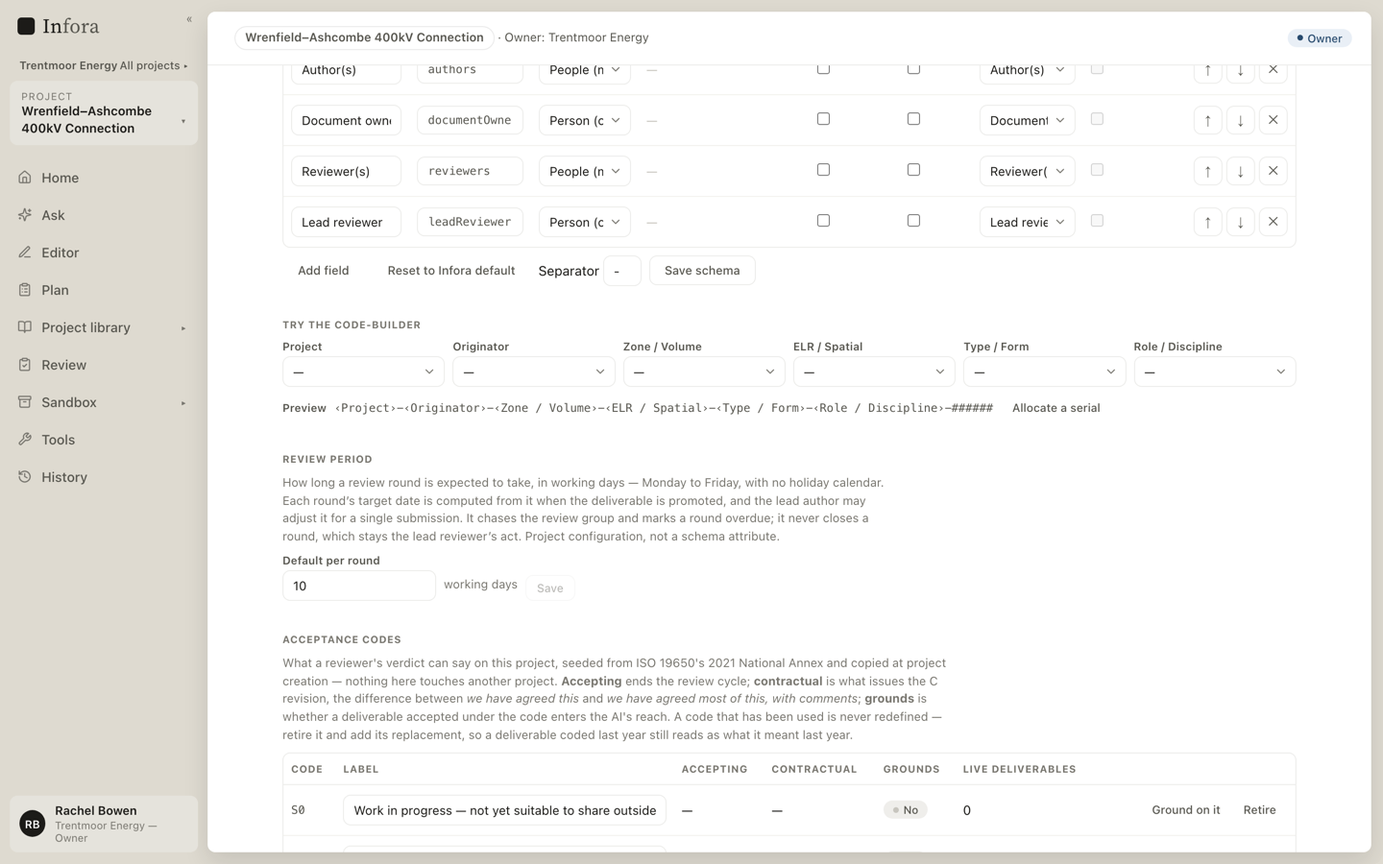
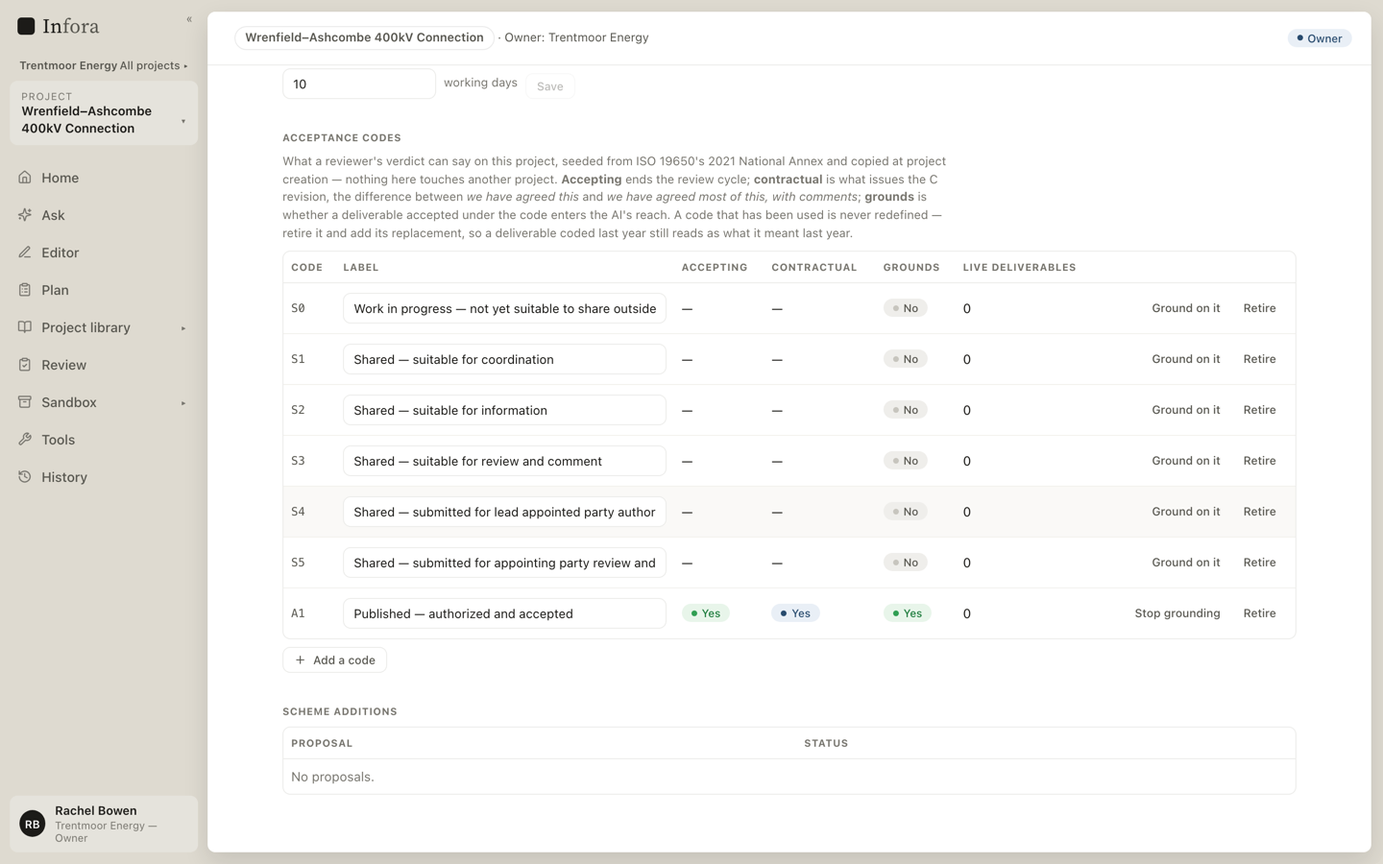
review: the co-captain pass on Slice Document Status
Verified against the diffs commit by commit: records moved verbatim,
migrations clean on the re-synced snapshot chain, 0048 untouched, all six
contract changes carrying their dated why-notes, no ADR or guard touched,
and the deviations each licensed by the ruling they cite (ADR-0013's
amendment rules the propose path but not its storage; ADR-0045's
"confirmed, un-retired" makes retire-returns-to-live the correct reading).
Full check, eval smoke and a clean-run e2e (63) all green here too.

What the pass corrects:

- The new Act I walkthrough beat was a duplicate photograph —
  00b-acceptance-codes.png was byte-identical to 00a-review-period.png.
  scrollIntoViewIfNeeded is a no-op when the heading already peeks into
  the viewport, so the beat captioned "the acceptance-code editor"
  shipped a picture of the review-period card. capture.mjs now scrolls
  the heading to the top explicitly, and the recaptured shot shows the
  S0–S5 + A1 scheme, the three flag columns and the retire actions.
- T-386's history record now names its own follow-up commit (e43a026):
  the ontology e2e confirms the edge as the owner and asserts the
  producer's confirm is refused — the record had been frozen before the
  fix it needed existed.
- T-383's record carried "hand-written, journal appended by hand"
  verbatim beside a migration whose header says generated — the As-built
  section now reconciles the two instead of preserving the contradiction.

What the pass mints:
[…]

diff --git a/docs/build/plan-history.md b/docs/build/plan-history.md
@@ -697,11 +697,10 @@ the board ordered them.
 
 *Ruled 2026-08-27 by the document-status session (amendments to ADR-0013, ADR-0003, ADR-0041, ADR-0045, the ADR-0011 rider and ADR-0049; closing `Q-036`), built from 2026-08-28. Records move here ticket by ticket as they close.*
 
-- **T-383 — Migration 0048: the grounding rule and who withdrew.** ✅ **Built 2026-08-28** — **as migration 0052, not 0048.** `acceptance_codes` gains `is_contractual` and `grounds`; `containers` gains `withdrawn_by_participant_id`. Seed the default scheme from the **2021** NA — ⚠ **not the 2018 table**, which most free material still reproduces and in which `S5` meant *withdrawn*, `S6`/`S7` and `CR` existed and `A2` implied a RIBA stage. `container_state` is **unchanged** — all four values shipped from the start. Drawn in [data-model.md](data-model.md); hand-written, journal appended by hand, atlas regenerated. **As built, and three things the spec did not settle.** (1) **The migration number in the title and the drawing was already taken** — `0048_pdf-document-format` is T-305's, landed the same day the drawing was made. This is **0052**, and the drawing's label is corrected in this commit, where the drawn block also reduces to narrative + pointer under [data-model.md](data-model.md)'s state rule. (2) **The seeded scheme is `S0`–`S5` and `A1` only**, in [acceptance-code-seed.ts](../../packages/db/src/acceptance-code-seed.ts) — a copy-at-creation module beside `ontology-seed.ts`, replacing the four hand-written `A/B/C/D` rows in the seed. `A1` is the sole Published code because the NA rules that *the reason for each `An` code must be written into the project's information standard*: a default that invented meanings for `A2`–`A5` would be asserting exactly what the standard refuses to fix, and T-390's editor is what lets a firm add its own. `B1`/`Bn` is deprecated and therefore not seeded, though a project may still add it. Every code stays `level: 'both'`, as the previous default was — the NA has no comment-grain verdict codes and inventing a split was not this ticket's to make. (3) **The migration backfills rather than defaulting.** Both columns default `false`, which is the restrictive and therefore visible direction for new rows; but for rows written *before* the migration, acceptance **was** admission **was** grounding, so a bare default would have silently stopped every already-accepted deliverable grounding in any existing database. The hand-added backfill sets both from `is_accepting`, reproducing the pre-migration rule exactly for data written under it. E2e's two hard-coded assertions on the old `A — Accepted` code move to `A1`; every other test picks its code by `isAccepting` and needed no change. | *(Deps: none)*
+- **T-383 — Migration 0048: the grounding rule and who withdrew.** ✅ **Built 2026-08-28** — **as migration 0052, not 0048.** `acceptance_codes` gains `is_contractual` and `grounds`; `containers` gains `withdrawn_by_participant_id`. Seed the default scheme from the **2021** NA — ⚠ **not the 2018 table**, which most free material still reproduces and in which `S5` meant *withdrawn*, `S6`/`S7` and `CR` existed and `A2` implied a RIBA stage. `container_state` is **unchanged** — all four values shipped from the start. Drawn in [data-model.md](data-model.md); hand-written, journal appended by hand, atlas regenerated. **As built, and three things the spec did not settle** *(and one correction, added in review: "hand-written, journal appended by hand" above described the pre-T-344 convention — as built the migration is drizzle-kit **generated** on the re-synced snapshot, with the `grounds` backfill hand-added and the journal entry generated with it)*. (1) **The migration number in the title and the drawing was already taken** — `0048_pdf-document-format` is T-305's, landed the same day the drawing was made. This is **0052**, and the drawing's label is corrected in this commit, where the drawn block also reduces to narrative + pointer under [data-model.md](data-model.md)'s state rule. (2) **The seeded scheme is `S0`–`S5` and `A1` only**, in [acceptance-code-seed.ts](../../packages/db/src/acceptance-code-seed.ts) — a copy-at-creation module beside `ontology-seed.ts`, replacing the four hand-written `A/B/C/D` rows in the seed. `A1` is the sole Published code because the NA rules that *the reason for each `An` code must be written into the project's information standard*: a default that invented meanings for `A2`–`A5` would be asserting exactly what the standard refuses to fix, and T-390's editor is what lets a firm add its own. `B1`/`Bn` is deprecated and therefore not seeded, though a project may still add it. Every code stays `level: 'both'`, as the previous default was — the NA has no comment-grain verdict codes and inventing a split was not this ticket's to make. (3) **The migration backfills rather than defaulting.** Both columns default `false`, which is the restrictive and therefore visible direction for new rows; but for rows written *before* the migration, acceptance **was** admission **was** grounding, so a bare default would have silently stopped every already-accepted deliverable grounding in any existing database. The hand-added backfill sets both from `is_accepting`, reproducing the pre-migration rule exactly for data written under it. E2e's two hard-coded assertions on the old `A — Accepted` code move to `A1`; every other test picks its code by `isAccepting` and needed no change. | *(Deps: none)*
 - **T-384 — The withdrawal guard follows the publication boundary.** ✅ **Built 2026-08-28.** Producer-only pre-publication (T-189's existing guard, correct and kept), owner-only once the container is in the library, with a producer **propose** path. Records which side acted. **This is where `Q-036`'s ruling becomes code**, and the guard it replaces is unconditional. **As built:** the two acts that share the word *withdrawal* are separated by `containers.in_library` and nothing else — pre-publication the owner is answered **404**, not 403, because that is already what the plan tells one organisation about another's unpublished rows; published, the owner writes the state and the producer's identical `POST /containers/:id/withdrawal` **proposes** instead. **The proposal had nowhere drawn to live.** The slice's migration drew two columns and explicitly enumerated what it left undrawn (context state) without naming a proposal table, so a proposal rides **the same two columns as a withdrawal**, with record state telling them apart: reason + proposer recorded while `state` is still `live`. Nothing is in force — the deliverable is in the library and **still grounds** until the owner answers — and `withdrawnReason` is suppressed in the contract while a proposal stands, because one column meaning two things is tolerable in the store and not in a surface. The owner answers on `POST /containers/:id/withdrawal-proposal/resolution`: accepting withdraws it **under the proposer's own reason** (rewriting it in the owner's words would lose the only account of why), while **re-stamping `withdrawn_by` to the confirming owner participant** — §5 asks which side *withdrew* it, and once published the answer is the owner, which is exactly what T-385's restore rule then reads. **The elevated tier gates the proposal too**: T-362 lists withdraw among the acts a row's lead author does not hold, and asking a client to end a published deliverable is not a smaller act than removing an unpublished plan row. **Not built, and not in the ticket:** the producer cannot retract its own standing proposal — it asks the owner to decline. | *(Deps: T-383)*
-- **T-386 — Confirming a `supersedes` edge sets record state, and the owner confirms.** ✅ **Built 2026-08-28.** Today confirmation writes the edge and touches nothing else. Proposal stays open to either party; on a **library** container only the owner confirms ([ontology.ts](../../apps/api/src/ontology.ts) currently makes all relationship writes a producing-organisation act). **As built:** confirmation authority keys on the edge's **target**, not on its source, because the target is the container a confirmation writes to — a `supersedes` edge *into a library container* sets that container's record state, and a record in the owner's library is the owner's (ADR-0045 amendment §1/§2 read together with ADR-0013 §2). A target that is not yet published is unchanged: the producing organisation's own record, its own edge to confirm. Both endpoints must be **visible to the writer**, which was already true of proposal and was not of confirm/retire — the wall does not open because an edge points through it. **Only `live` is overwritten:** a target already `withdrawn` or `rejected` is in a state a person set for a reason, and since none of the three grounds there is nothing to gain by restating it and a reason to lose. **Retiring a confirmed `supersedes` edge returns the target to `live`** when no other confirmed, un-retired one still points at it — ADR-0045 §1 grants the consequence to a confirmed **and un-retired** edge, and this is the *only* way back from `superseded`: nothing withdrew the container, so T-385's restore rule has no act to read. | *(Deps: T-383)*
+- **T-386 — Confirming a `supersedes` edge sets record state, and the owner confirms.** ✅ **Built 2026-08-28.** Today confirmation writes the edge and touches nothing else. Proposal stays open to either party; on a **library** container only the owner confirms ([ontology.ts](../../apps/api/src/ontology.ts) currently makes all relationship writes a producing-organisation act). **As built:** confirmation authority keys on the edge's **target**, not on its source, because the target is the container a confirmation writes to — a `supersedes` edge *into a library container* sets that container's record state, and a record in the owner's library is the owner's (ADR-0045 amendment §1/§2 read together with ADR-0013 §2). A target that is not yet published is unchanged: the producing organisation's own record, its own edge to confirm. Both endpoints must be **visible to the writer**, which was already true of proposal and was not of confirm/retire — the wall does not open because an edge points through it. **Only `live` is overwritten:** a target already `withdrawn` or `rejected` is in a state a person set for a reason, and since none of the three grounds there is nothing to gain by restating it and a reason to lose. **Retiring a confirmed `supersedes` edge returns the target to `live`** when no other confirmed, un-retired one still points at it — ADR-0045 §1 grants the consequence to a confirmed **and un-retired** edge, and this is the *only* way back from `superseded`: nothing withdrew the container, so T-385's restore rule has no act to read. | *(Deps: T-383)* **Follow-up in its own commit (e43a026), added in review: the ontology e2e now confirms the edge as the owner and asserts the producer’s confirm is refused with 404 — the suite had been confirming as the producer, the very act this ticket makes impossible.**
 - **T-385 — Restoration stops being symmetric.** ✅ **Built 2026-08-28.** Reads `withdrawn_by` to decide who may undo. As built either side could restore what the other withdrew with neither act recording the other; the comment justifying it (*"recovery is never a helpdesk ticket"*) was reasoning about a producer undoing its own mistake. **As built:** an owner-side withdrawal is the owner's to undo and the producer is **403**, not 404 — it can see the container, so denial-reads-as-nonexistence would be a lie here; a producer's withdrawal is undoable by the producer **and by the owner**, which is §5's own second clause and is coherent rather than lopsided, because the owner may un-break where it may not break (it has no withdrawal act on an unpublished row at all). **Two things fell out that the ticket did not name.** A withdrawal recorded **before migration 0052** carries no actor, so the publication boundary stands in for the missing row — pre-publication only the producer could have acted, in the library only the owner — which is exactly what the absent record would have said. And restoration now **refuses anything that is not `withdrawn`** (409 `not_withdrawn`), where it previously set `state = 'live'` from whatever it found: with T-386 landed that would have been a second, unguarded way back from `superseded`, bypassing the retire-the-edge path and leaving a container live while a confirmed edge still said it was superseded. The elevated tier and its refusal record are untouched, and are still checked **before** the authority rule, so an unelevated member is told the act is above their tier rather than handed the state of a withdrawal they have no part in. | *(Deps: T-384)*
-
 - **T-387 — The grounding filter gains the code clause.** ✅ **Built 2026-08-28.** ⚠ **The sensitive one:** it changes what the AI can answer from, and it fails **silently and asymmetrically** — too permissive is invisible (answers cite what they should not, and every citation still resolves), too restrictive is visible (answers thin, users complain). Weight the test effort toward the invisible direction. Retrieval joins the accepting round's code and checks `grounds`, beside the existing `state = 'live'` — which **is** genuinely in the retrieval SQL as a pre-filter, verified 2026-08-27 at [retrieval.ts:96](../../packages/knowledge/src/retrieval.ts#L96) with a `withdrawn` unit test, so there is no latent bug to fix first. **Four conditions, all of them the point of the ticket.** (1) **New eval cases, not just a re-run.** The seed set covers version-level supersession (TRAP-01) and container state is unit-tested, but **nothing asserts an absence for a non-grounding code** — so a broken-permissive build passes the whole suite unchanged. Write `must_not_cite` cases against a deliverable admitted under a non-grounding code (the harness supports the shape; PERM-02 uses it for the wall), **and keep them in this ticket** — a control split into its own ticket is a control that can be deferred away from the thing it controls. Run the suite either side regardless. (2) **The clause lands inside the assembly gateway, never in a caller** — ADR-0029 §4 puts baseline assembly and targeted sub-agent retrieval on one call precisely so guarantees hold in both modes, and this is the first new pre-filter clause since; in one path only, an agentic sub-agent reaches what the baseline excluded. (3) **Measure before optimising.** The join is container → accepting round → code, on a path that also carries the wall filter. That depth is an *inferred* risk, not a measured one — build the join, measure it against the seeded corpus, **denormalise the immutable half only if the number justifies it**, and record the number either way (ADR-0013 §6 permits caching *which* code admitted a container, and forbids caching the answer). (4) **The code's own `grounds` flag is read live**, because T-390's screen promises a count about the next query. | *(Deps: T-383)* **As built, and the numbers the ticket asked for.** The clause is one SQL scalar subquery inside `liveLibraryFilter` — the filter BOTH arms of the one gateway call share, so condition (2) holds by construction and the lexical arm is covered as well as the vector one (a case asserts it, because naming a code in the question is the path most likely to reach past a filter applied to similarity alone). **The null is load-bearing:** `is not false` admits a container with no accepting round at all, which is owner-added reference material (T-304 — no work item, no cycle, no code). A clause demanding a grounding code would have silently emptied the reference half of every project library, which the ticket's own framing predicts: that is the RESTRICTIVE failure, and it is the visible one. **Condition (3), measured and not inferred:** interleaved over the dev corpus (1,847 chunks, 1,749 candidate rows before the clause and 1,724 after) the join's median was **2.7 ms against 8.4 ms for the same query without it** — the clause is not a cost at this size at all, because pruning containers before the vector sort pays for the join several times over. **Nothing is denormalised**, and the number is why. The corpus is small against v1.md's 100–500 documents, so the honest claim is that no cost was found rather than that none exists at scale. **Condition (1):** `hollowfield-reservoir-4`, the fourth fixture — the first able to say HOW a deliverable was admitted (`acceptance_codes` + `admitted_by`, materialised as a closed cycle whose round carries the code, because retrieval reads that join and a fixture that only set `in_library` would declare a state the product cannot reach) — and `TRAP-04` on it, whose two documents disagree on a figure so a wrong reliance shows in the answer's own words. Verified BOTH ways: with the clause removed, `TRAP-04` fails on `must_not_cite` **and** on `must_not_contain`, and five of the six unit cases fail. **One thing the ticket did not settle:** `TRAP-04` sorts after `TRAP-01`, so the smoke tier's one-per-category rule leaves it to the nightly `full` run. The deterministic half of the control therefore lives in `packages/knowledge/src/retrieval.test.ts`, which `pnpm run check` runs on every commit — a control this quiet should not wait for a nightly tier to be exercised at all.
 - **T-388 — Context state on the deliverable read, and the badge that names its reason.** ✅ **Built 2026-08-28.** Derived, never stored — *not used for AI answers — superseded* · *— partial sign-off* · *— withdrawn*. A switch that set it independently of its inputs would give the platform two state machines that could disagree. **As built:** one derivation in [context-state.ts](../../apps/api/src/context-state.ts) with **no writer and no endpoint that sets it**, read by both the plan and the library, so the surface cannot re-infer it and become the second state machine itself. It lands on **both** reads because each shows a different half — the library list carries only the live corpus, so it is the only place a *live but out-of-reach* deliverable is visible at all, and the plan is where a `superseded`, `withdrawn` or `rejected` record is actually read. **The reason for a non-grounding code is that code's own description**, not a platform enum: the 2021 National Annex requires each Published code's meaning to be written into the project's information standard, so no phrase Infora could ship would be true of every project — a project whose `B1` reads *"partial sign-off"* gets the ticket's own wording, and one that wrote something else gets that. **A correction to a sentence on the Documents screen fell out of it:** *"Superseded and withdrawn documents leave this list and the grounded corpus together"* had been true and stopped being — since the ADR-0011 rider a deliverable can be **on the list and out of reach**, which is exactly the case the badge exists for. | *(Deps: T-387)*
 - **T-389 — The owner's supersede and withdraw actions, and the producer's propose actions.** ✅ **Built 2026-08-28.** The buttons that do not exist today, in Documents. Withdrawal takes a **mandatory reason**; its visibility follows the container, so the producing organisation reads it. **As built:** both sides press the **same** control and the publication boundary decides what it does — the owner's *Withdraw…* and the producer's *Propose withdrawal…* are one endpoint (T-384), so the surface cannot drift from the rule. The copy is where the two differ, and it is careful not to overstate: a proposal says *"it stays live and keeps grounding until the owner accepts"*, because it does. **Supersession needed a picker, not a button.** It is an edge and not a state (ADR-0013 §3) — the case it exists for is a *different document* becoming authoritative — so the modal names the replacement, and the owner's press runs **propose then confirm as two calls** rather than a third kind of write: the record then reads proposed-then-confirmed, which is what happened. **A standing proposal sits on its own row**, visible to both sides with the answer offered only to the owner, because a proposal leaves the deliverable live and listed, and the row already carries its reason, its producer and its state. **`LibraryItem` gained `producingOrganisationId`** — `producerName` had been enough while the screen only read, and the first writes on it are exactly the ones where which side you are on decides which act you hold. **The user story's one unbuilt beat is now marked as such:** *"I find out because Infora tells me"* is the notifications slice (T-329–T-332), and until it lands the fact reaches the producing organisation on the Documents screen and the plan rather than by a pointer that arrives. | *(Deps: T-384, T-386)*

diff --git a/docs/grill-sessions/grill-questions.md b/docs/grill-sessions/grill-questions.md
@@ -36,7 +36,7 @@ is the **process log**.
 
 ## How to read an entry
 
-`Q-###` — title. **Next free number: Q-047** — **derive it, don't trust it:
+`Q-###` — title. **Next free number: Q-048** — **derive it, don't trust it:
 `pnpm run check:questions -- --next`** (T-343) scans this tracker,
 [grill-history.md](grill-history.md) *and* `git log`, and prints the next free
 number. Bump this line in the same commit that claims one; `pnpm run check`
@@ -193,6 +193,7 @@ this group that a ticket found by trying to build the thing.
 - **Q-042 — Does the internal QA lead give the undertaking too?** **[A]** · *Blocks: nothing — the built exemption is ADR-licensed.* Raised 2026-08-22 by the slice-walkthrough-2 audit. **The user situation:** inside one firm's own sandbox, a colleague is named internal QA lead and the QA round simply opens — no Accept click, because sandbox rounds are born open (ADR-0051 §4: a firm should not acknowledge its own submission to itself) and the acceptance gate rides the acknowledgement. Yet the QA verdict is what promotion issues to the client, and the appointment surface at that scope shows the same undertaking card asking for a yes that nothing waits on. **Recommendation:** keep the exemption — the internal verdict is org-private QA, not the contractual verdict the undertaking exists for — and say so on the card at that scope. **Stress test:** the same fork hides a second one — at sandbox scope a declined QA appointment's *reason* is readable by nobody but its author, because "owner-organisation-private" names the wrong organisation on a container the owner cannot even see; whoever answers this question should say who reads a QA decline reason.
 - **Q-043 — What does a declined reviewer's history still let them do?** **[A]** · *Blocks: nothing.* Raised 2026-08-22 by the same audit. **The user situation:** a reviewer marks "review complete" on the open round, then declines their lead appointment for the next. As built (T-372), the decline strips every reviewer act at once — so their standing completion mark can never be withdrawn (it renders forever), and they can no longer fix a typo in a comment that stays attributed to them on the permanent record. **Recommendation:** authorship of what they already wrote is a separate standing from the appointment they refused — let the author edit their own comment while the round is open, and let a completion mark be withdrawn by its owner regardless of the grant's state. **Stress test:** if a declined reviewer can still touch their comment, the wall must be clear that this is authorship, not membership — they gain no read on anything the decline lost them.
 - **Q-044 — Resigning a lead appointment after accepting it.** **[A]** · *Blocks: nothing.* Raised 2026-08-22 by the same audit. **The user situation:** a lead reviewer accepted three months ago; they are leaving the firm's project team next week. There is no resignation act — decline is refused once accepted — so the only exit is the T-352 side door: as live confirmed lead they may revoke their own grant, which works but records **no reason**, the very thing the decline design insists a refusal must carry. **Recommendation:** a resignation act on the accepted grant — reason mandatory, revokes the grant, same one-live-lead consequences as a decline — so the record reads "resigned, because" instead of a bare revocation. **Stress test:** ADR-0033 §2's "the way out is re-appointment, never an override" was written about *others* overriding the appointee; a resignation is the appointee's own act, so it needs no ADR amendment — confirm that reading before building.
+- **Q-047 — A declined withdrawal proposal leaves no record.** **[A]** · *Blocks: nothing — the built flow works; this is about what the record can later prove.* Raised 2026-08-28 by the Slice Document Status review. **The user situation:** a consultant proposes withdrawing its own published study (T-384's propose path); the owner declines. The proposal — its reason, its proposer, the fact it was ever made — **vanishes**: it rode the container's two withdrawal columns while state stayed `live`, and the decline clears them. Eighteen months later nothing can show the producing firm flagged its own study, which is precisely the fact that firm would want on the record if the study is later found wanting. **The mechanism, plainly:** the slice deliberately stored a proposal in the columns the act would fill (no proposals table was drawn), with record state telling proposal from act — a clean bet for the happy path, silent for the declined one. It also admits only **one** pending proposal, and the producer cannot retract its own (it asks the owner to decline — an act then recorded nowhere). **Recommendation:** follow the repo's own precedent — `elevated_refusals` exists because *an attempt is data exactly as a completed act is*, and the people who'd want a refusal gone are the people holding the lever. A small append-only `withdrawal_proposals` record (proposer, reason, outcome, who resolved it), the columns keeping their current role for the live proposal. **Stress test:** the decline reason cuts the other way — the owner declining is the owner making a claim about the producer's own study; is *that* reason owner-private, container-visible like the withdrawal reason itself (ADR-0013 §4), or not required at all? Whoever rules this should also say whether a declined proposal may be re-raised unchanged, or must say what changed.
 - **Q-015 — The audit record: retention, cancellation, and granularity.** **[B]** · *Blocks: Q-001, Q-018.* Substantially ruled 2026-07-12 (T-104): the record is retained background data anchored to the work, producing-organisation-private, never a review surface — the consultant carries the professional liability. **Still open:** retention and expiry (may unaccepted refine-chain suggestions or old chat runs ever be deleted?), the cancellation state (**Q-010**), whether ad-hoc chat deserves a lighter record than governed work, and whether provenance ever re-surfaces document-anchored on an insurer or regulator demand.
 - **Q-010 — Cancelling a run server-side.** **[A]** · *Blocks: nothing; decide with streaming.* T-097's cancel aborts the client's wait; the run completes and stands in the record. A real Stop needs a Run state-machine ruling — a `cancelled` terminal state vs `failed` with a cancellation rail outcome — and an abort path through the chain. Streaming changes the same seam, so decide them together.
 - **Q-022 — Citation → chunk provenance.** **[C]** · *Blocks: nothing.* Sources hoverable to render the exact retrieved chunk. **Probably discharged by T-253** (passage-grain audit records `chunk_id` alongside `version_id`); verify what remains is only the hover surface, and close this if so.

diff --git a/docs/build/plan.md b/docs/build/plan.md
@@ -102,7 +102,7 @@ The wave design-reference blocks below are a **holding pen, not a home**. Each f
 
 ## How to read a ticket
 
-`T-###` — title. **Next free number: T-392** — **derive it, don't trust it: `pnpm run check:tickets -- --next`** scans this board, the history *and* `git log` and prints the next free number. Bump this line in the same commit that claims numbers; `pnpm run check` fails if it falls behind, or if one number is defined twice. The line stays because it is readable, but the script is the authority — the prose convention alone let concurrent sessions collide twice (T-208–T-210, T-223–T-233). **Deps:** tickets that must be done first — **tickets only, never a `Q-###`** (see the rule below).
+`T-###` — title. **Next free number: T-393** — **derive it, don't trust it: `pnpm run check:tickets -- --next`** scans this board, the history *and* `git log` and prints the next free number. Bump this line in the same commit that claims numbers; `pnpm run check` fails if it falls behind, or if one number is defined twice. The line stays because it is readable, but the script is the authority — the prose convention alone let concurrent sessions collide twice (T-208–T-210, T-223–T-233). **Deps:** tickets that must be done first — **tickets only, never a `Q-###`** (see the rule below).
 
 **⚖ The Q/T boundary — what earns a ticket number** *(adopted 2026-08-01)*. **A `T-###` is minted when the work can be *specified*. A `Q-###` exists when the question can be *stated*.** Being able to state a question precisely is not the same as being able to answer it, and it is never enough to justify a build ticket. So: unruled work is named in its slice's prose as **🌫 Fog** and ticketed when the ruling lands; a Deps field contains tickets only; and **what a question blocks lives in that question's own Blocks field**, which is the one place that relationship is recorded. The cost of getting this wrong is not theoretical — tickets minted against open questions carried the tracker's *recommendations* into their text, and when the rulings went the other way the board contradicted itself and needed a reconciliation commit (504f473). **Done when:** the acceptance test, drawn from the destination spec its slice serves — [v1.md](v1.md) for current work, [plan-history.md](plan-history.md) for the closed skeleton milestones. Package names from [repo-structure.md](repo-structure.md). A ticket is sized for one focused agent run (roughly a PR each).
 
@@ -384,6 +384,7 @@ entry naming its gate and where its design lives.
 - ~~**T-389** — the owner's supersede and withdraw actions, and the producer's propose actions.~~ ✅ **Built 2026-08-28** — moved record in [plan-history.md](plan-history.md#slice-document-status)
 - ~~**T-390** — the acceptance-code editor, on the schema screen.~~ ✅ **Built 2026-08-28** (migration 0053) — moved record in [plan-history.md](plan-history.md#slice-document-status)
 - ~~**T-391** — the attached-source marker carries the withdrawal reason.~~ ✅ **Built 2026-08-28** (migration 0054) — moved record in [plan-history.md](plan-history.md#slice-document-status)
+- **T-392 — The C revision issues only on a contractual code.** *(Minted 2026-08-28 by the slice's review — the slice stored the flag and flagged, honestly, that nothing consumes it.)* ADR-0003's amendment says an accepting code ends the cycle but **only a contractual one issues the `C` revision** (ADR-0041 — the 2021 NA's own `S4`/`S5` split), and T-383 stored `is_contractual`; [cycle.ts](../../apps/api/src/cycle.ts) still issues the C on **any** accepting code, gated on `isAccepting` alone. **Done when:** acceptance under an accepting, non-contractual code closes the cycle and admits per `grounds`, but issues **no C revision** — the accepted content keeps its reviewed `P` revision; a contractual code issues the C exactly as today; and the accepted-status surface states which of the two happened rather than implying C. | *(Deps: none)*
 
 **The notification is not in this slice.** It is a third event type on ADR-0049's set and rides **T-330** below, which waits on T-329 and T-323 and therefore on SES domain verification and production access — external lead time (ADR-0047 §16). **The acts ship first and the telling follows**, stated here so the sequence is not discovered by whoever picks the ticket up.
 
